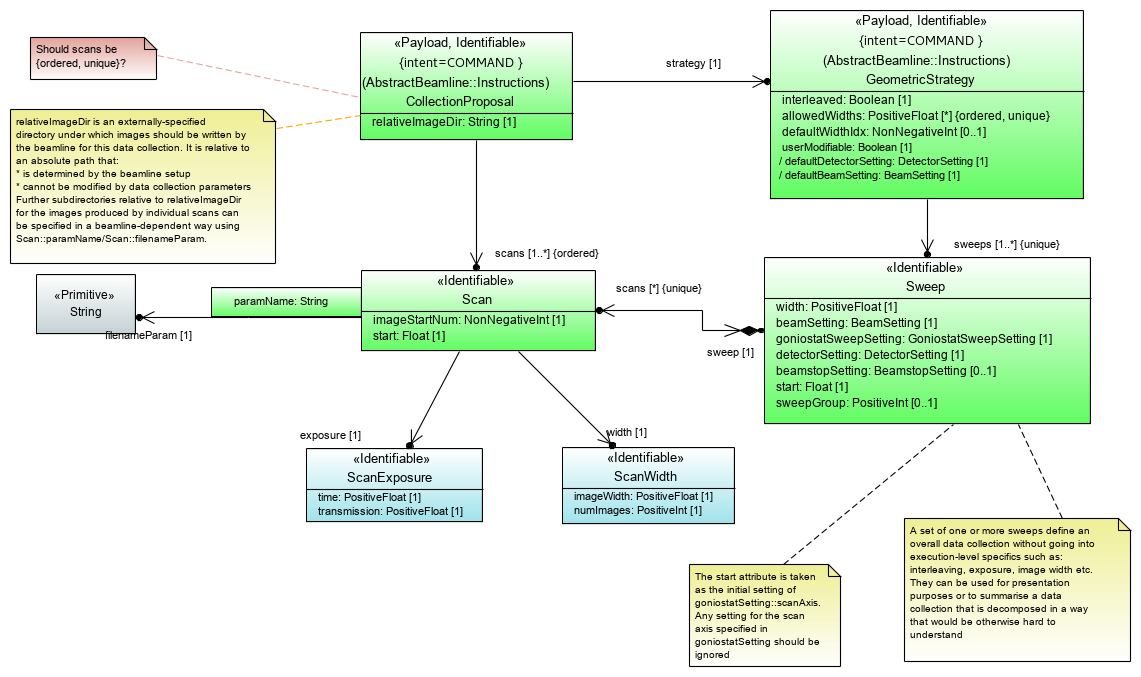
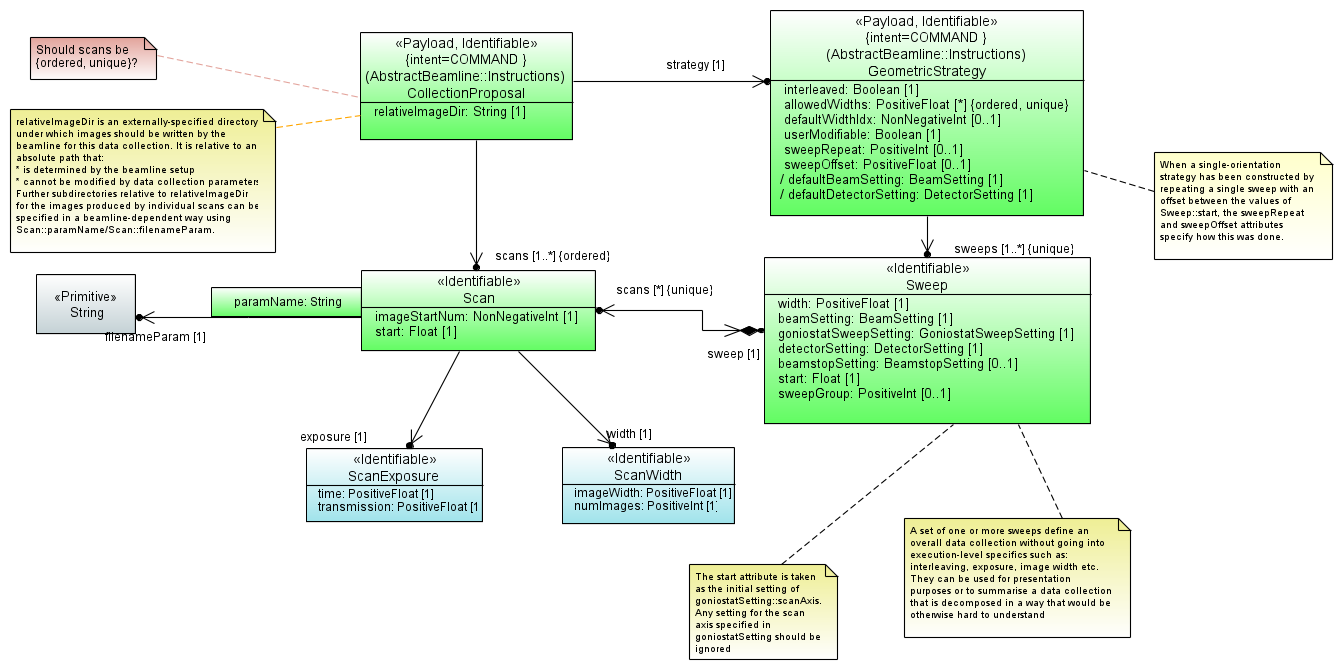
Cater for a strategy made up of repeated sweeps separated by an offset

diff --git a/com.globalphasing.sdcp.abstract_beamline/src/co/gphl/beamline/v2_unstable/data_collection/GeometricStrategy.java b/com.globalphasing.sdcp.abstract_beamline/src/co/gphl/beamline/v2_unstable/data_collection/GeometricStrategy.java
@@ -1,5 +1,5 @@
 /*
- * Copyright © 2015 by Global Phasing Ltd. All rights reserved
+ * Copyright © 2015, 2021 by Global Phasing Ltd. All rights reserved
  *
  * This software is proprietary to and embodies the confidential
  * technology of Global Phasing Limited (GPhL).
@@ -32,6 +32,10 @@ public interface GeometricStrategy extends IdentifiedElement, Payload {
     List<Double> getAllowedWidths();
     int getDefaultWidthIdx();
     boolean isUserModifiable();
+    boolean isSetSweepRepeat();
+    Integer getSweepRepeat();
+    boolean isSetSweepOffset();
+    Double getSweepOffset();    
     
     DetectorSetting getDefaultDetectorSetting();
     BeamSetting getDefaultBeamSetting();
